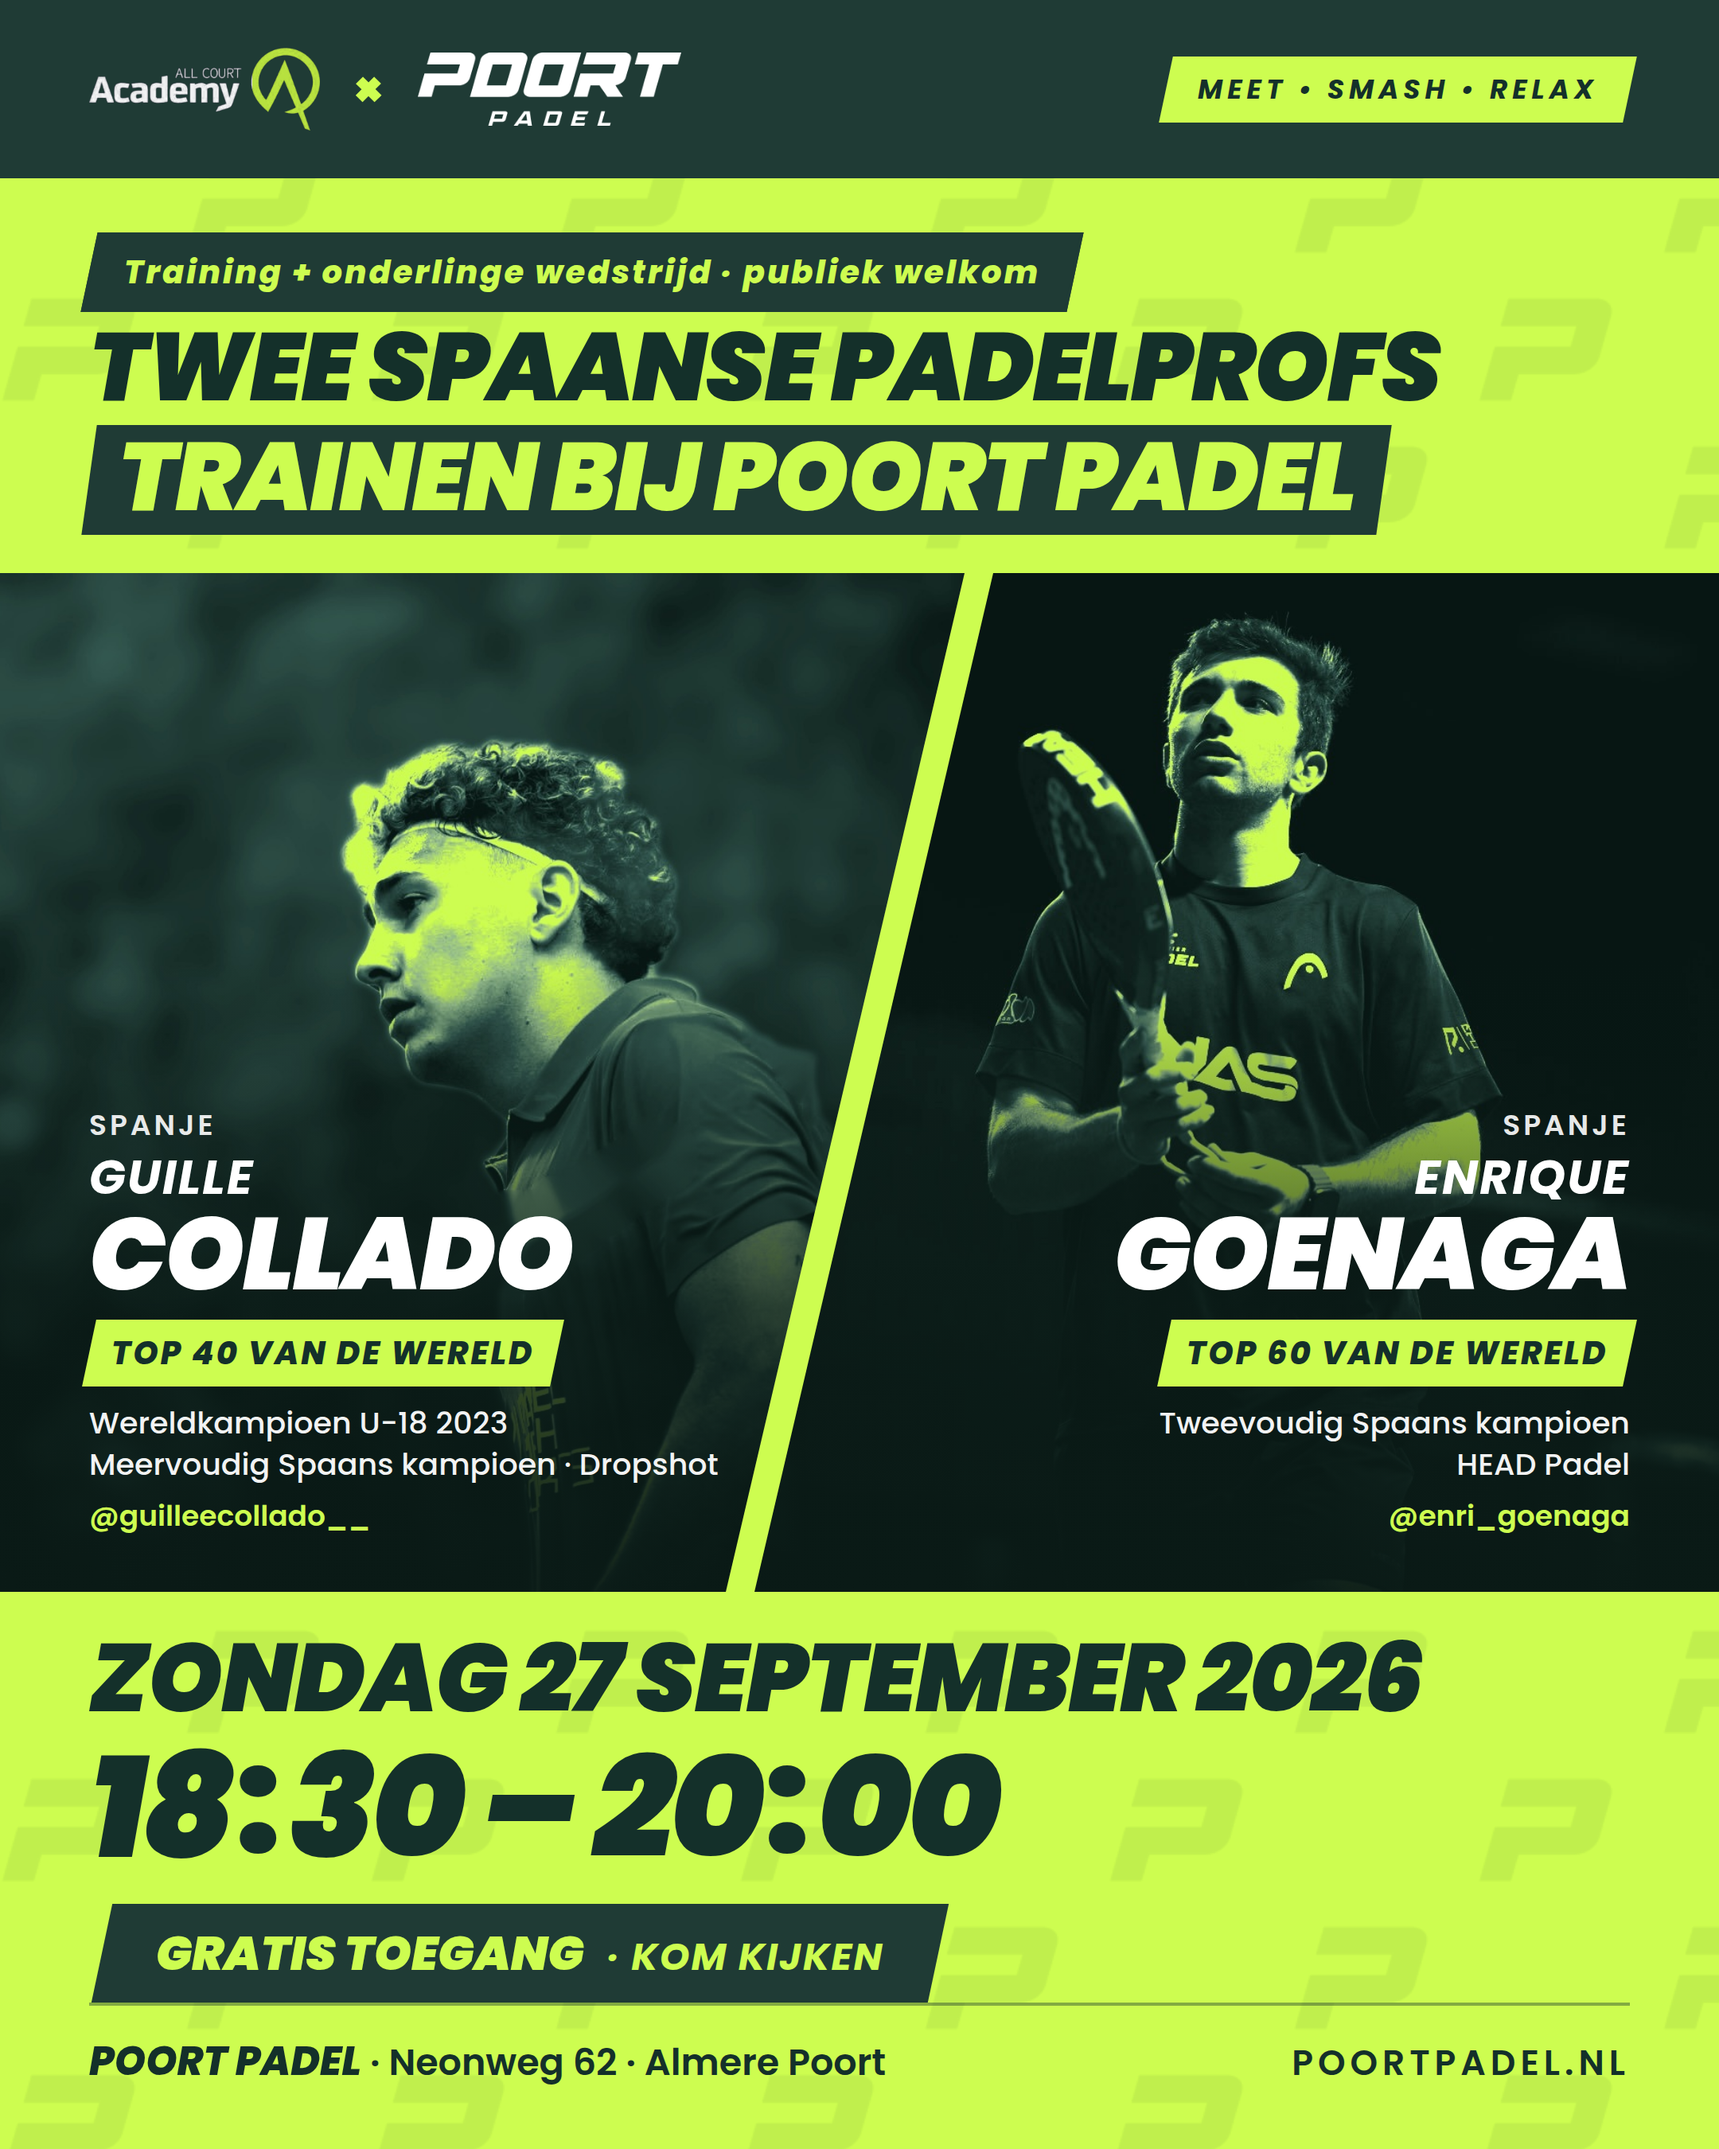
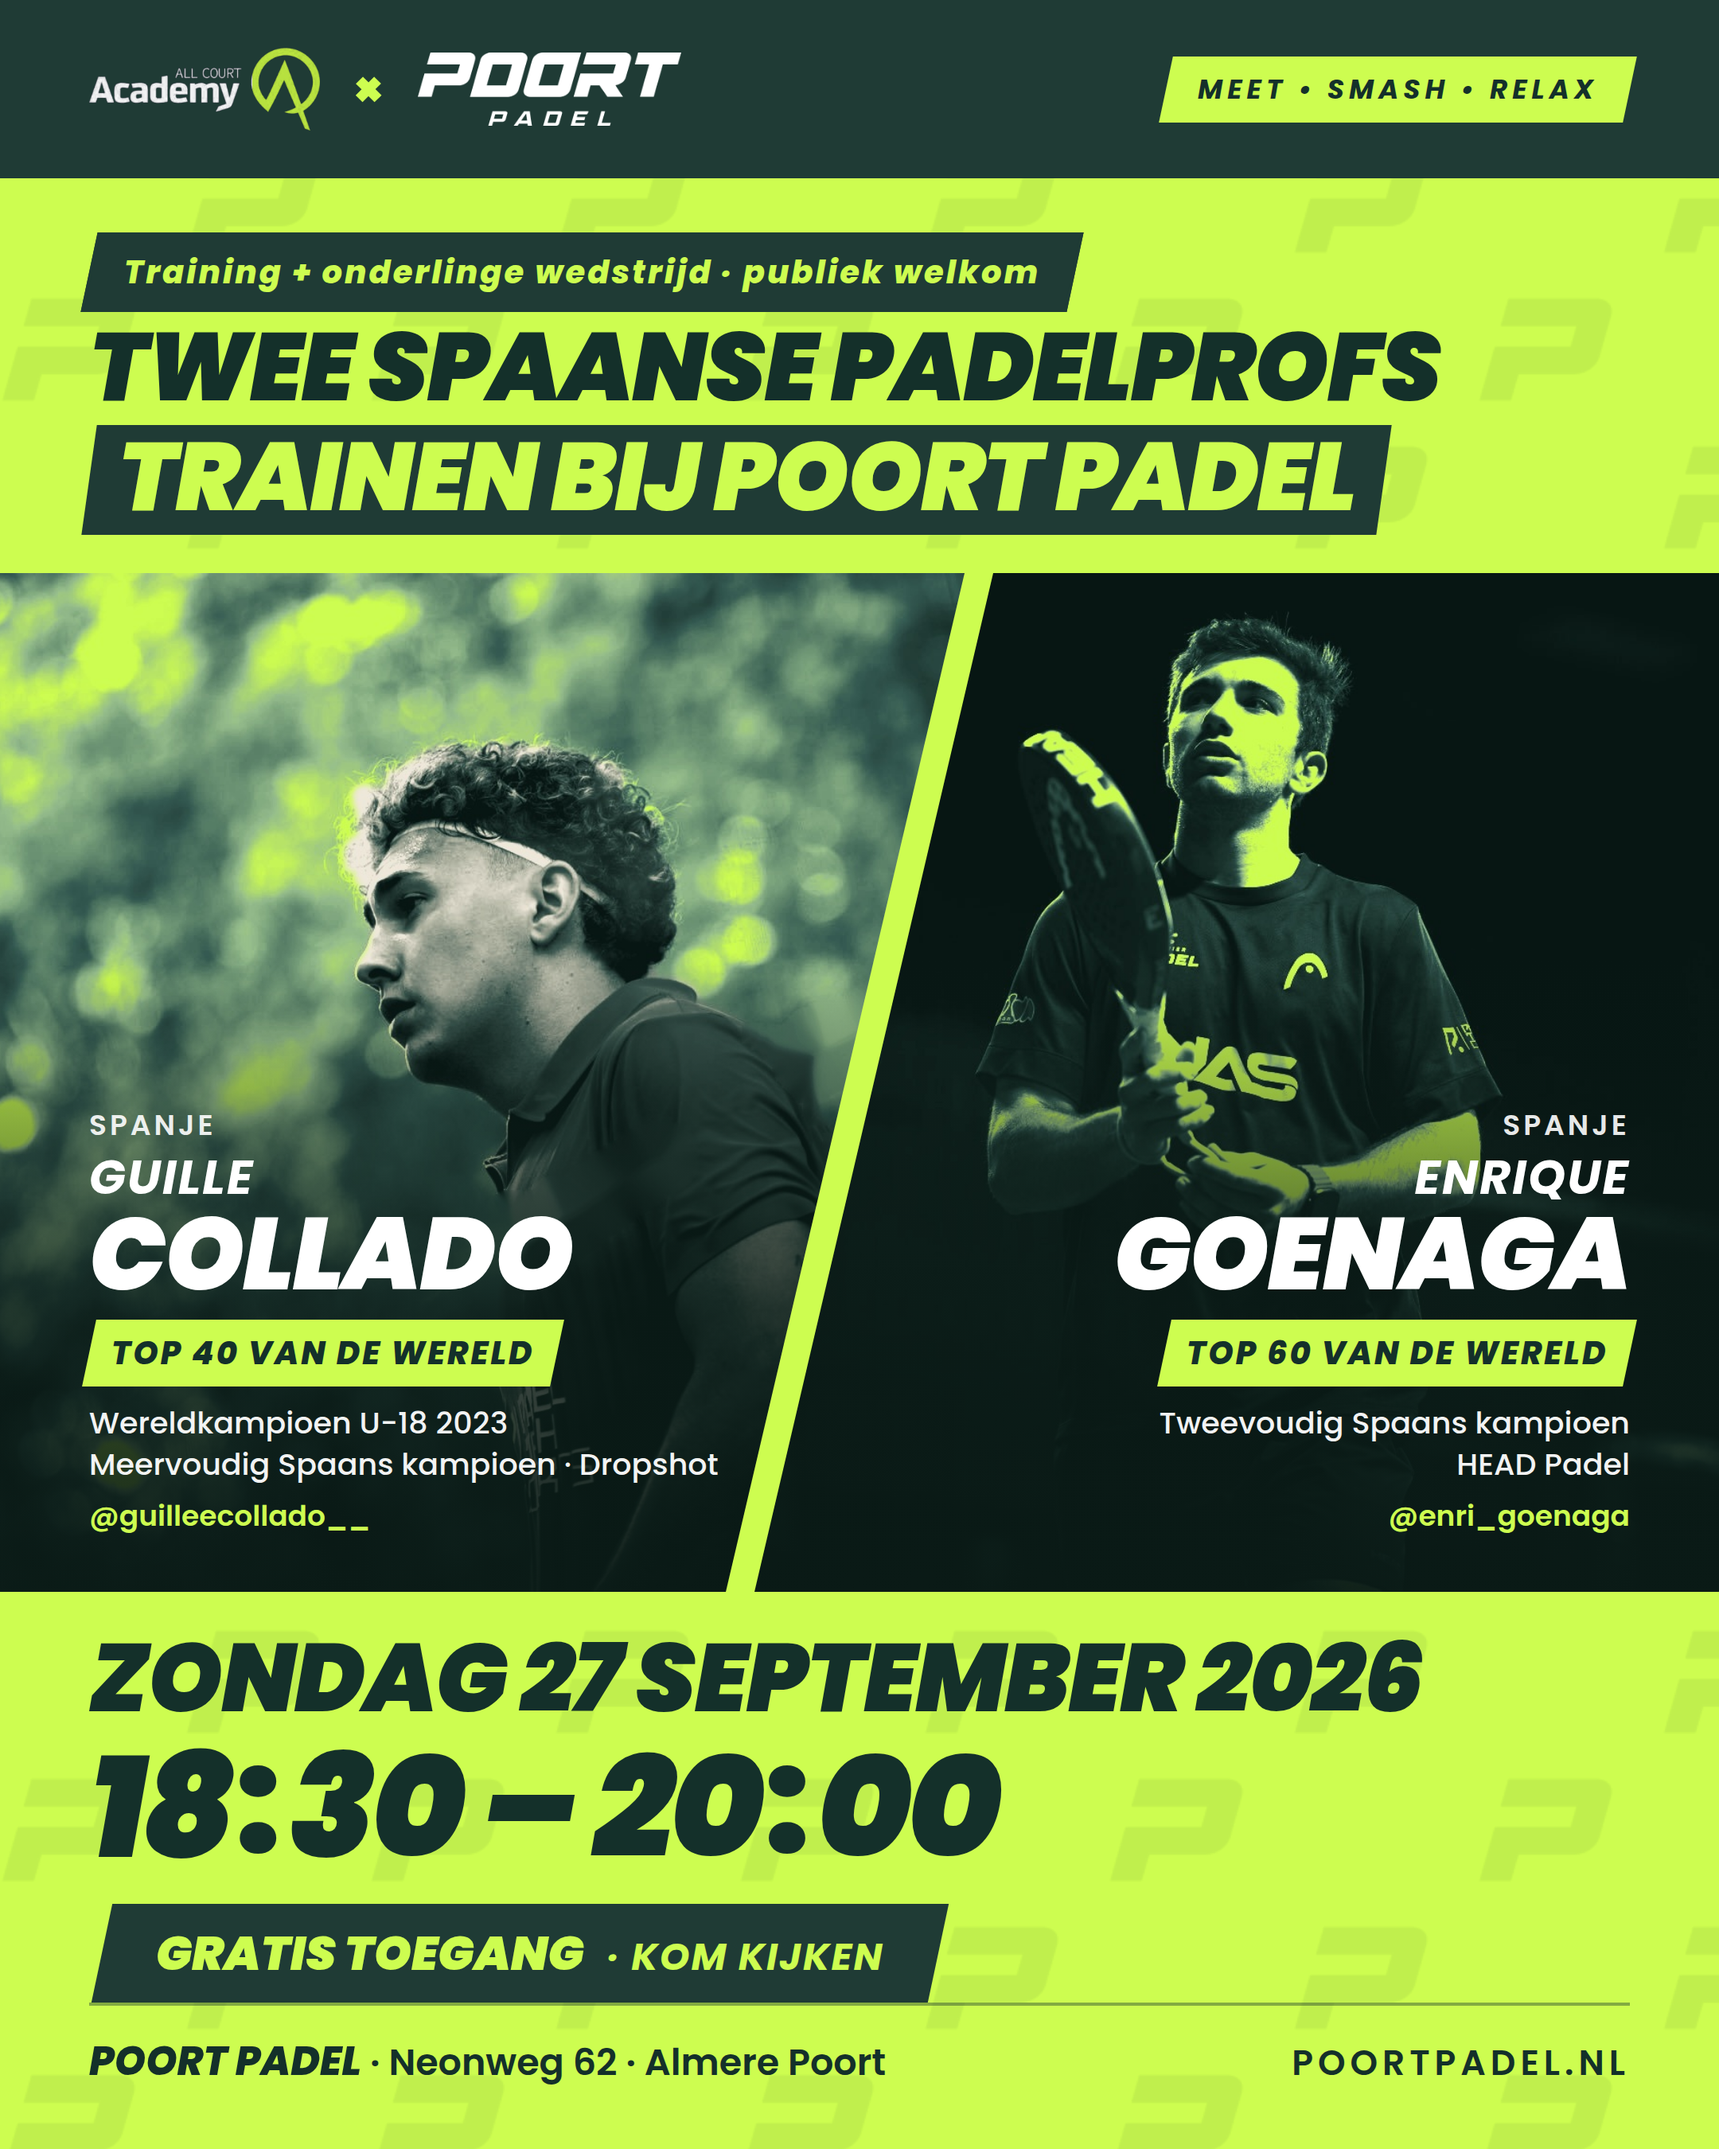
Poster Goenaga & Collado: achtergrond terug, huid en haar van Collado zonder lime
Persoonmasker stuurt een tweede duotone-verloop met neutrale hoge
lichten; de achtergrond behoudt de lime duotone.

Claude-Session: https://claude.ai/code/session_01XvRhSgAuPfNbbAXDCSXsBF

Changed region(s): [[0.0, 0.2489, 0.5583, 0.5911]]

diff --git a/events/2026-poort-padel-goenaga-collado/build_duotone.py b/events/2026-poort-padel-goenaga-collado/build_duotone.py
@@ -4,21 +4,34 @@ from PIL import Image, ImageOps, ImageEnhance
 import numpy as np
 
 STOPS = [(0.0, (8, 22, 19)), (0.45, (53, 91, 82)), (0.8, (150, 190, 140)), (1.0, (205, 253, 80))]
+# voor huid en haar: zelfde schaduwen, maar de hoge lichten lopen naar een warm, neutraal licht in plaats van lime
+STOPS_SKIN = [(0.0, (8, 22, 19)), (0.45, (60, 88, 80)), (0.8, (175, 178, 160)), (1.0, (238, 232, 218))]
 
 
-def duotone(im, dst, stops=STOPS):
-    g = ImageOps.autocontrast(ImageOps.grayscale(im.convert('RGB')), cutoff=1)
-    g = ImageEnhance.Contrast(g).enhance(1.15)
-    a = np.asarray(g).astype(np.float32) / 255.0
+def _map(a, stops):
     out = np.zeros(a.shape + (3,), np.float32)
     for (p0, c0), (p1, c1) in zip(stops[:-1], stops[1:]):
         m = (a >= p0) & (a <= p1)
         t = ((a - p0) / (p1 - p0))[m][:, None]
         out[m] = np.array(c0) * (1 - t) + np.array(c1) * t
+    return out
+
+
+def duotone(im, dst, stops=STOPS, mask=None):
+    """mask (L-beeld, wit = persoon): daar STOPS_SKIN, elders `stops`; de rand wordt zacht overgeblend."""
+    g = ImageOps.autocontrast(ImageOps.grayscale(im.convert('RGB')), cutoff=1)
+    g = ImageEnhance.Contrast(g).enhance(1.15)
+    a = np.asarray(g).astype(np.float32) / 255.0
+    out = _map(a, stops)
+    if mask is not None:
+        from PIL import ImageFilter
+        w = np.asarray(mask.convert('L').filter(ImageFilter.GaussianBlur(3))).astype(np.float32)[:, :, None] / 255.0
+        out = _map(a, STOPS_SKIN) * w + out * (1 - w)
     Image.fromarray(out.astype(np.uint8)).save(dst, quality=94)
 
 
 if __name__ == '__main__':
-    duotone(Image.open('build/collado-profile-clean.jpg'), 'build/collado-profile-duotone.jpg')  # lensflare over de arm weggewerkt, zie build_clean_collado.py
+    duotone(Image.open('build/collado-profile-clean.jpg'), 'build/collado-profile-duotone.jpg',
+            mask=Image.open('build/collado-mask.png'))  # flare weg + persoon zonder lime, zie build_clean_collado.py
     duotone(Image.open('assets/goenaga-profile.jpg'), 'build/goenaga-duotone.jpg')
     duotone(Image.open('assets/collado-post-06.jpg').crop((0, 0, 1170, 1150)), 'build/collado-duotone.jpg')

diff --git a/events/2026-poort-padel-goenaga-collado/build_clean_collado.py b/events/2026-poort-padel-goenaga-collado/build_clean_collado.py
@@ -16,7 +16,7 @@ out = cv2.inpaint(im, mask, 12, cv2.INPAINT_TELEA)
 cv2.imwrite('build/collado-profile-clean.jpg', out, [cv2.IMWRITE_JPEG_QUALITY, 95])
 print('klaar, maskerpixels:', int(mask.sum() / 255))
 
-# --- achtergrond rustig maken: persoon vrijstaand (GrabCut), bokeh erachter donker en zacht ---
+# --- masker van de persoon (GrabCut), zodat de duotone op gezicht en haar geen lime gebruikt ---
 mask2 = np.zeros((h, w), np.uint8)
 bgd, fgd = np.zeros((1, 65), np.float64), np.zeros((1, 65), np.float64)
 cv2.grabCut(out, mask2, (230, 90, 850, 990), bgd, fgd, 8, cv2.GC_INIT_WITH_RECT)
@@ -25,9 +25,5 @@ fg = cv2.morphologyEx(fg, cv2.MORPH_OPEN, np.ones((7, 7), np.uint8))
 fg = cv2.morphologyEx(fg, cv2.MORPH_CLOSE, np.ones((15, 15), np.uint8))
 n, lab, stats, _ = cv2.connectedComponentsWithStats(fg)          # alleen het grootste stuk (de persoon) houden
 fg = np.where(lab == 1 + np.argmax(stats[1:, cv2.CC_STAT_AREA]), 255, 0).astype(np.uint8)
-alpha = cv2.GaussianBlur(fg, (0, 0), 4).astype(np.float32)[:, :, None] / 255.0
-bg = cv2.GaussianBlur(out, (0, 0), 9).astype(np.float32) * 0.38  # donkerder en zachter, stippen verdwijnen
-comp = out.astype(np.float32) * alpha + bg * (1 - alpha)
-cv2.imwrite('build/collado-profile-clean.jpg', comp.astype(np.uint8), [cv2.IMWRITE_JPEG_QUALITY, 95])
-cv2.imwrite('build/collado-mask.png', fg)
-print('achtergrond gedempt')
+cv2.imwrite('build/collado-mask.png', fg)   # gebruikt door build_duotone.py: persoon zonder lime, achtergrond met lime
+print('masker persoon geschreven')

diff --git a/events/2026-poort-padel-goenaga-collado/README.md b/events/2026-poort-padel-goenaga-collado/README.md
@@ -176,5 +176,5 @@ Op `collado-profile.jpg` loopt een lichte streep (lensflare) over borst en boven
 
 ## Rustiger achtergrond bij Collado en dubbele punten in de tijd (22 september 2026)
 
-- De bokeh-stippen achter Collado werden in duotone lime en trokken de aandacht. `build_clean_collado.py` maakt de persoon nu vrijstaand (GrabCut) en zet de achtergrond erachter donker en zacht; het masker staat in `build/collado-mask.png`. Hoeveel de achtergrond gedempt wordt regel je met de factor `0.38` en de blur `9` in dat script.
+- Eerst is de achtergrond achter Collado gedempt, maar Lars wilde de achtergrond terug: het ging om de lime vlekken op zijn gezicht en haar. Nu maakt `build_clean_collado.py` alleen een masker van de persoon (GrabCut, `build/collado-mask.png`) en gebruikt `build_duotone.py` binnen dat masker een tweede kleurverloop (`STOPS_SKIN`): zelfde donkere schaduwen, maar de hoge lichten lopen naar een warm neutraal licht in plaats van lime. De achtergrond houdt de lime duotone. Wil je hetzelfde bij Goenaga, dan is daar ook een masker voor nodig.
 - De dubbele punten in "18:30 – 20:00" stonden schuin tegen de 8 en de 0 aan. Ze staan nu rechtop met wat ruimte (class `c` in `build_variants.py`).
